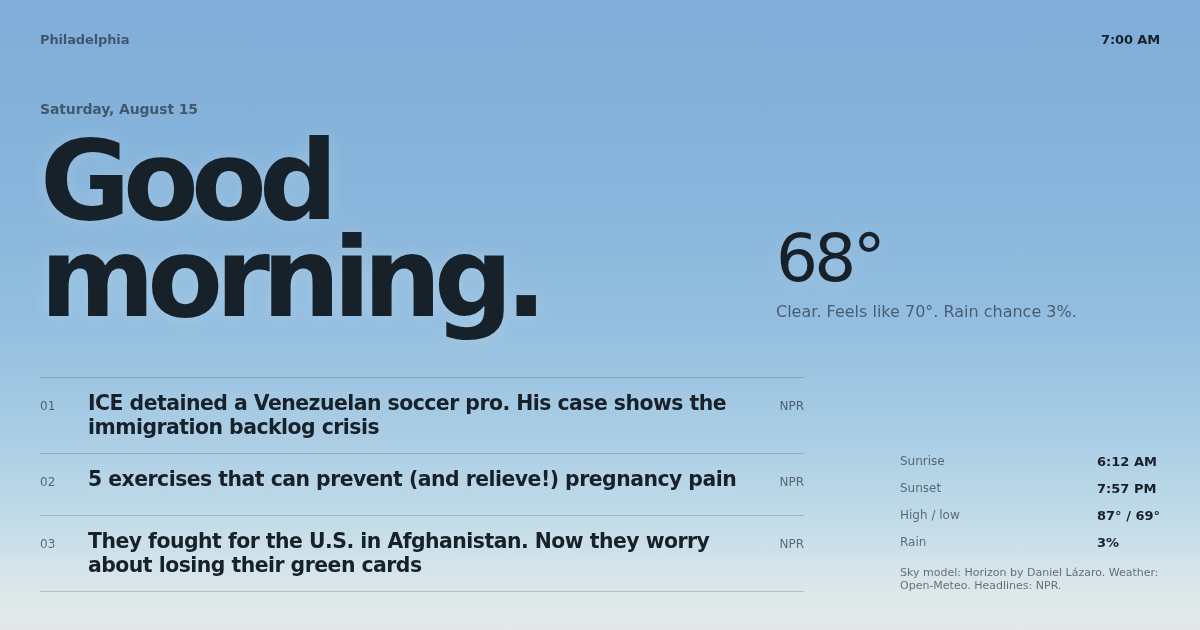
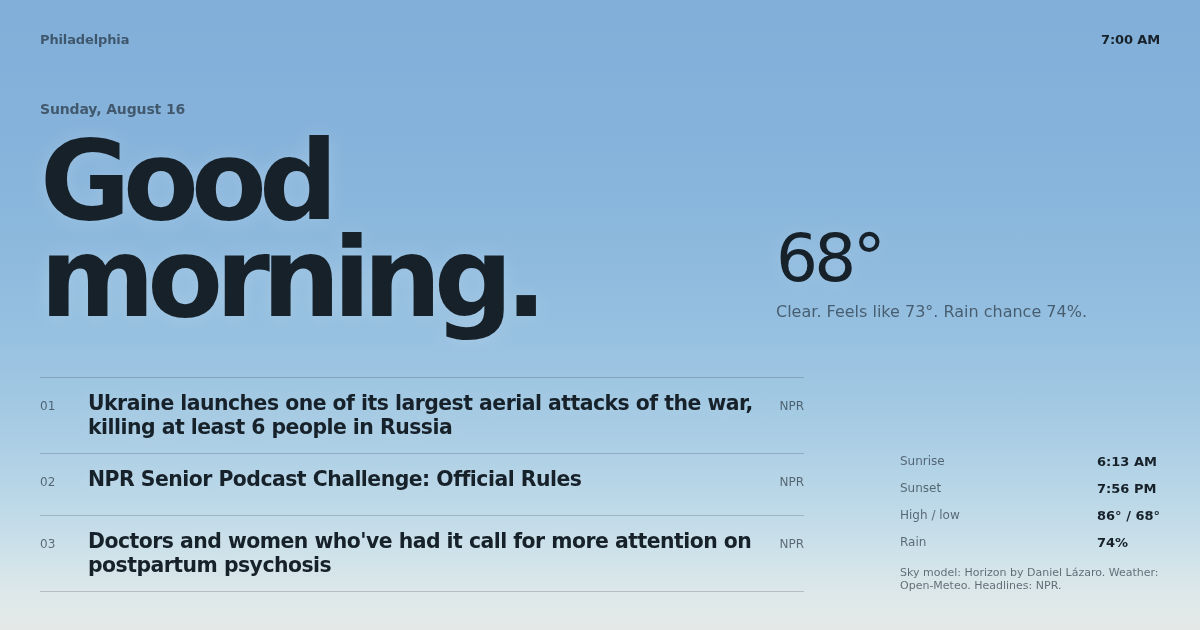
chore: refresh morning briefing 2026-08-16

diff --git a/index.html b/index.html
@@ -5,17 +5,17 @@
   <meta name="viewport" content="width=device-width, initial-scale=1">
   <meta name="color-scheme" content="light dark">
   <meta name="theme-color" content="#7595b2">
-  <meta name="description" content="Philadelphia morning briefing for 2026-08-15: Clear. Feels like 70°. Rain chance 3%.">
+  <meta name="description" content="Philadelphia morning briefing for 2026-08-16: Clear. Feels like 73°. Rain chance 74%.">
   <meta property="og:type" content="website">
   <meta property="og:title" content="Philadelphia morning briefing">
-  <meta property="og:description" content="Clear. Feels like 70°. Rain chance 3%. Three stories for Saturday, August 15.">
-  <meta property="og:url" content="https://evan-luther.github.io/morning-briefing/?date=2026-08-15">
-  <meta property="og:image" content="https://evan-luther.github.io/morning-briefing/briefing.png?v=2026-08-15">
+  <meta property="og:description" content="Clear. Feels like 73°. Rain chance 74%. Three stories for Sunday, August 16.">
+  <meta property="og:url" content="https://evan-luther.github.io/morning-briefing/?date=2026-08-16">
+  <meta property="og:image" content="https://evan-luther.github.io/morning-briefing/briefing.png?v=2026-08-16">
   <meta property="og:image:width" content="1200">
   <meta property="og:image:height" content="630">
   <meta property="og:image:alt" content="Philadelphia morning sky with today's briefing">
   <meta name="twitter:card" content="summary_large_image">
-  <title>Morning Briefing | Saturday, August 15</title>
+  <title>Morning Briefing | Sunday, August 16</title>
   <style>
     :root {
       --horizon: linear-gradient(to bottom, #7595b2, #dbb69d);
@@ -195,27 +195,27 @@
 
     <section class="lead" aria-labelledby="greeting">
       <div>
-        <p class="date">Saturday, August 15</p>
+        <p class="date">Sunday, August 16</p>
         <h1 id="greeting">Good morning.</h1>
       </div>
       <div class="weather">
         <div class="temperature">68°</div>
-        <p>Clear. Feels like 70°. Rain chance 3%.</p>
+        <p>Clear. Feels like 73°. Rain chance 74%.</p>
       </div>
     </section>
 
     <section class="briefing" aria-label="Today's public briefing">
       <div class="stories">
-        <a class="story" href="https://www.npr.org/2026/08/15/nx-s1-5928322/ice-detained-a-venezuelan-soccer-pro-his-case-shows-the-immigration-backlog-crisis" target="_blank" rel="noreferrer"><span class="story-index">01</span><span class="story-title">ICE detained a Venezuelan soccer pro. His case shows the immigration backlog crisis</span><span class="story-source">NPR</span></a>
-        <a class="story" href="https://www.npr.org/2026/08/15/nx-s1-5930423/strength-exercises-to-relieve-prevent-pregnancy-pain" target="_blank" rel="noreferrer"><span class="story-index">02</span><span class="story-title">5 exercises that can prevent (and relieve!) pregnancy pain</span><span class="story-source">NPR</span></a>
-        <a class="story" href="https://www.npr.org/2026/08/15/nx-s1-5897606/afghanistan-visa-green-card-deport" target="_blank" rel="noreferrer"><span class="story-index">03</span><span class="story-title">They fought for the U.S. in Afghanistan. Now they worry about losing their green cards</span><span class="story-source">NPR</span></a>
+        <a class="story" href="https://www.npr.org/2026/08/16/nx-s1-5933006/ukraine-aerial-attack-6-dead-russia" target="_blank" rel="noreferrer"><span class="story-index">01</span><span class="story-title">Ukraine launches one of its largest aerial attacks of the war, killing at least 6 people in Russia</span><span class="story-source">NPR</span></a>
+        <a class="story" href="https://www.npr.org/2026/08/16/nx-s1-5929441/npr-senior-podcast-challenge-official-rules" target="_blank" rel="noreferrer"><span class="story-index">02</span><span class="story-title">NPR Senior Podcast Challenge: Official Rules</span><span class="story-source">NPR</span></a>
+        <a class="story" href="https://www.npr.org/2026/08/16/nx-s1-5931964/lindsay-clancy-trial-postpartum-psychosis-diagnosis" target="_blank" rel="noreferrer"><span class="story-index">03</span><span class="story-title">Doctors and women who&#x27;ve had it call for more attention on postpartum psychosis</span><span class="story-source">NPR</span></a>
       </div>
       <div>
         <div class="daylight">
-          <span>Sunrise</span><strong>6:12 AM</strong>
-          <span>Sunset</span><strong>7:57 PM</strong>
-          <span>High / low</span><strong>87° / 69°</strong>
-          <span>Rain</span><strong>3%</strong>
+          <span>Sunrise</span><strong>6:13 AM</strong>
+          <span>Sunset</span><strong>7:56 PM</strong>
+          <span>High / low</span><strong>86° / 68°</strong>
+          <span>Rain</span><strong>74%</strong>
         </div>
         <div class="attribution">Sky model: Horizon by Daniel Lázaro. Weather: Open-Meteo. Headlines: NPR.</div>
       </div>
